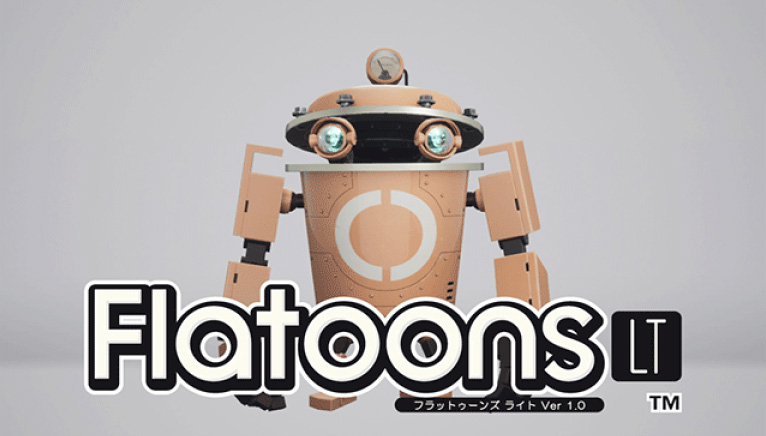
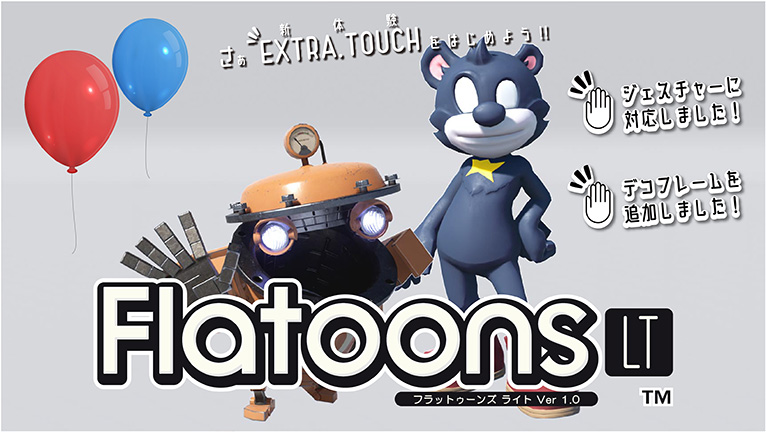
update:  flatoonslt images

diff --git a/index.html b/index.html
@@ -112,7 +112,7 @@
 					<div class="ph"><a href="ballshooters/"><img src="images/sec02_ph02.jpg" alt="BALLSHOOTERS"/></a></div>
 				</li>
 				<li>
-					<div class="ph"><a href="flatoonslt/"><img src="images/sec02_ph03_2.jpg" alt="Flatoons -LT-"/></a></div>
+					<div class="ph"><a href="flatoonslt/"><img src="images/sec02_ph03.jpg" alt="Flatoons -LT-"/></a></div>
 				</li>
 				<li>
 					<div class="ph"><a href="#"><img src="images/sec02_ph04.jpg" alt=""/></a></div>

diff --git a/flatoonslt/index.html b/flatoonslt/index.html
@@ -68,7 +68,7 @@
 		</header>
 	<div class="wrap">
 			<div class="fv">
-				<div class="anime_area"><img src="images/fv_ph2.jpg" alt="Flatoons-LT-"/></div>
+				<div class="anime_area"><img src="images/fv_ph.jpg" alt="Flatoons-LT-"/></div>
 			</div>
 		<article>
 			<section class="sec01" id="about">
